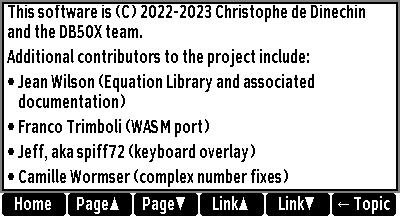
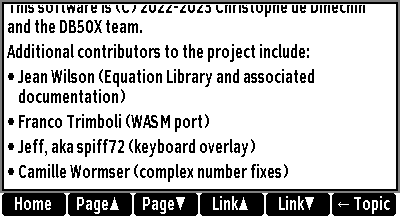
help: Add solver variable help
Add the ability to load a help topic that is `<var> variable`.

Changed region(s): [[0.0, 0.0, 0.93, 0.4977], [0.0, 0.6359, 0.72, 0.8571], [0.0, 0.5253, 0.54, 0.6359]]

diff --git a/src/user_interface.cc b/src/user_interface.cc
@@ -1367,6 +1367,40 @@ cstring user_interface::label_text(uint menu_id)
 }
 
 
+utf8 user_interface::label_for_function_key(size_t *len)
+// ----------------------------------------------------------------------------
+//   Return label for current function key
+// ----------------------------------------------------------------------------
+{
+    return label_for_function_key(evaluating, len);
+}
+
+
+utf8 user_interface::label_for_function_key(int key, size_t *len)
+// ----------------------------------------------------------------------------
+//   Return label for given function key
+// ----------------------------------------------------------------------------
+{
+    if (key >= KEY_F1 && key <= KEY_F6)
+    {
+        utf8     txt = nullptr;
+        symbol_p sym = label(key - KEY_F1);
+        if (sym)
+        {
+            txt = sym->value(len);
+        }
+        else if (cstring label = label_text(key - KEY_F1))
+        {
+            txt = utf8(label);
+            if (len)
+                *len = strlen(label);
+        }
+        return txt;
+    }
+    return nullptr;
+}
+
+
 uint user_interface::menu_planes()
 // ----------------------------------------------------------------------------
 //   Count menu planes
@@ -2950,10 +2984,13 @@ void user_interface::load_help(utf8 topic, size_t len)
         return;
     }
 
+    // Check if we lookup a solver variable
+    bool isvar = topic[0] == '`';
+
     // Check if this matches a command name. If so, we will search for
     // alternate spellings as well
     size_t     cmdlen = len;
-    object::id cmd = command::lookup(topic, cmdlen);
+    object::id cmd = isvar ? object::id(0) : command::lookup(topic, cmdlen);
     byte       ref[80];         // Length checked in the makefile
     size_t     refidx   = 0;
     if (cmdlen != len)
@@ -3021,7 +3058,10 @@ void user_interface::load_help(utf8 topic, size_t len)
             // Not found in index, quit
             if (!found)
                 goto notfound;
-            found = false;
+            if (!isvar)
+                found = false;
+            else if (found)
+                topicpos = idxpos;
         }
     }
 
@@ -3142,6 +3182,7 @@ enum style_name
 {
     TITLE,
     SUBTITLE,
+    SUBSUBTITLE,
     NORMAL,
     BOLD,
     ITALIC,
@@ -3176,6 +3217,7 @@ restart:
     {
         { HelpTitleFont,    p::black,  p::white,  false, false, false, false },
         { HelpSubTitleFont, p::black,  p::gray50,  true, false, true,  false },
+        { HelpSubTitleFont, p::black,  p::white,   true,  true, false, false },
         { HelpFont,         p::black,  p::white,  false, false, false, false },
         { HelpBoldFont,     p::black,  p::white,   true, false, false, false },
         { HelpItalicFont,   p::black,  p::white,  false, true,  false, false },
@@ -3276,7 +3318,7 @@ restart:
                 break;
 
             case ' ':
-                if (style <= SUBTITLE)
+                if (style <= SUBSUBTITLE)
                 {
                     skip = last == '#';
                     break;
@@ -3286,7 +3328,7 @@ restart:
                 break;
 
             case '\n':
-                if (last == '\n' || last == ' ' || style <= SUBTITLE)
+                if (last == '\n' || last == ' ' || style <= SUBSUBTITLE)
                 {
                     emit    = true;
                     skip    = true;
@@ -3317,7 +3359,9 @@ restart:
             case '#':
                 if (last == '#' || last == '\n')
                 {
-                    if (restyle == TITLE)
+                    if (restyle == SUBTITLE)
+                        restyle = SUBSUBTITLE;
+                    else if (restyle == TITLE)
                         restyle = SUBTITLE;
                     else
                         restyle = TITLE;
@@ -3391,6 +3435,8 @@ restart:
                         }
                         imdsp = true;
                         emit = true;
+                        if (hadTitle)
+                            y += height;
                     }
                 }
                 skip = true;
@@ -3672,7 +3718,7 @@ restart:
             width += 2*kwidth;
         }
 
-        if (style <= SUBTITLE)
+        if (style <= SUBSUBTITLE)
         {
             // Center titles
             x  = (LCD_W - width) / 2;
@@ -3830,7 +3876,7 @@ restart:
             if (!hadTitle)
                 y += height * 5 / 4;
         }
-        if (style <= SUBTITLE)
+        if (style <= SUBSUBTITLE)
             y += height / 2;
 
         // Select style for next round

diff --git a/src/constants.cc b/src/constants.cc
@@ -926,24 +926,9 @@ constant_p constant::do_key(config_r cfg, int key)
 //   Return a softkey label as a constant value
 // ----------------------------------------------------------------------------
 {
-    if (key >= KEY_F1 && key <= KEY_F6)
-    {
-        size_t   len = 0;
-        utf8     txt = nullptr;
-        symbol_p sym = ui.label(key - KEY_F1);
-        if (sym)
-        {
-            txt = sym->value(&len);
-        }
-        else if (cstring label = ui.label_text(key - KEY_F1))
-        {
-            txt = utf8(label);
-            len = strlen(label);
-        }
-
-        if (txt)
-            return do_lookup(cfg, txt, len, true);
-    }
+    size_t   len = 0;
+    if (utf8 txt = ui.label_for_function_key(key, &len))
+        return do_lookup(cfg, txt, len, true);
     return nullptr;
 }
 

diff --git a/src/solve.cc b/src/solve.cc
@@ -1140,6 +1140,22 @@ INSERT_BODY(SolvingMenuStore)
 }
 
 
+HELP_BODY(SolvingMenuStore)
+// ----------------------------------------------------------------------------
+//   Help for storing in a solver variable
+// ----------------------------------------------------------------------------
+{
+    size_t len = 0;
+    if (utf8 topic = ui.label_for_function_key(&len))
+    {
+        static char buf[64];
+        snprintf(buf, sizeof(buf), "`%.*s`", int(len), topic);
+        return utf8(buf);
+    }
+    return nullptr;
+}
+
+
 COMMAND_BODY(SolvingMenuSolve)
 // ----------------------------------------------------------------------------
 //  Solve for a given variable

diff --git a/src/user_interface.h b/src/user_interface.h
@@ -114,6 +114,8 @@ struct user_interface
     void        menu_auto_complete()    { autoComplete = true; }
     symbol_p    label(uint index);
     cstring     label_text(uint index);
+    utf8        label_for_function_key(int key, size_t *sz = nullptr);
+    utf8        label_for_function_key(size_t *sz = nullptr);
 
     bool        freeze(uint flags);
 

diff --git a/src/solve.h b/src/solve.h
@@ -81,7 +81,7 @@ public:
     MENU_DECL(SolvingMenu);
 };
 
-COMMAND_DECLARE_INSERT(SolvingMenuStore,1);
+COMMAND_DECLARE_INSERT_HELP(SolvingMenuStore,1);
 COMMAND_DECLARE_INSERT(SolvingMenuSolve,0);
 COMMAND_DECLARE_INSERT(SolvingMenuRecall,0);
 
